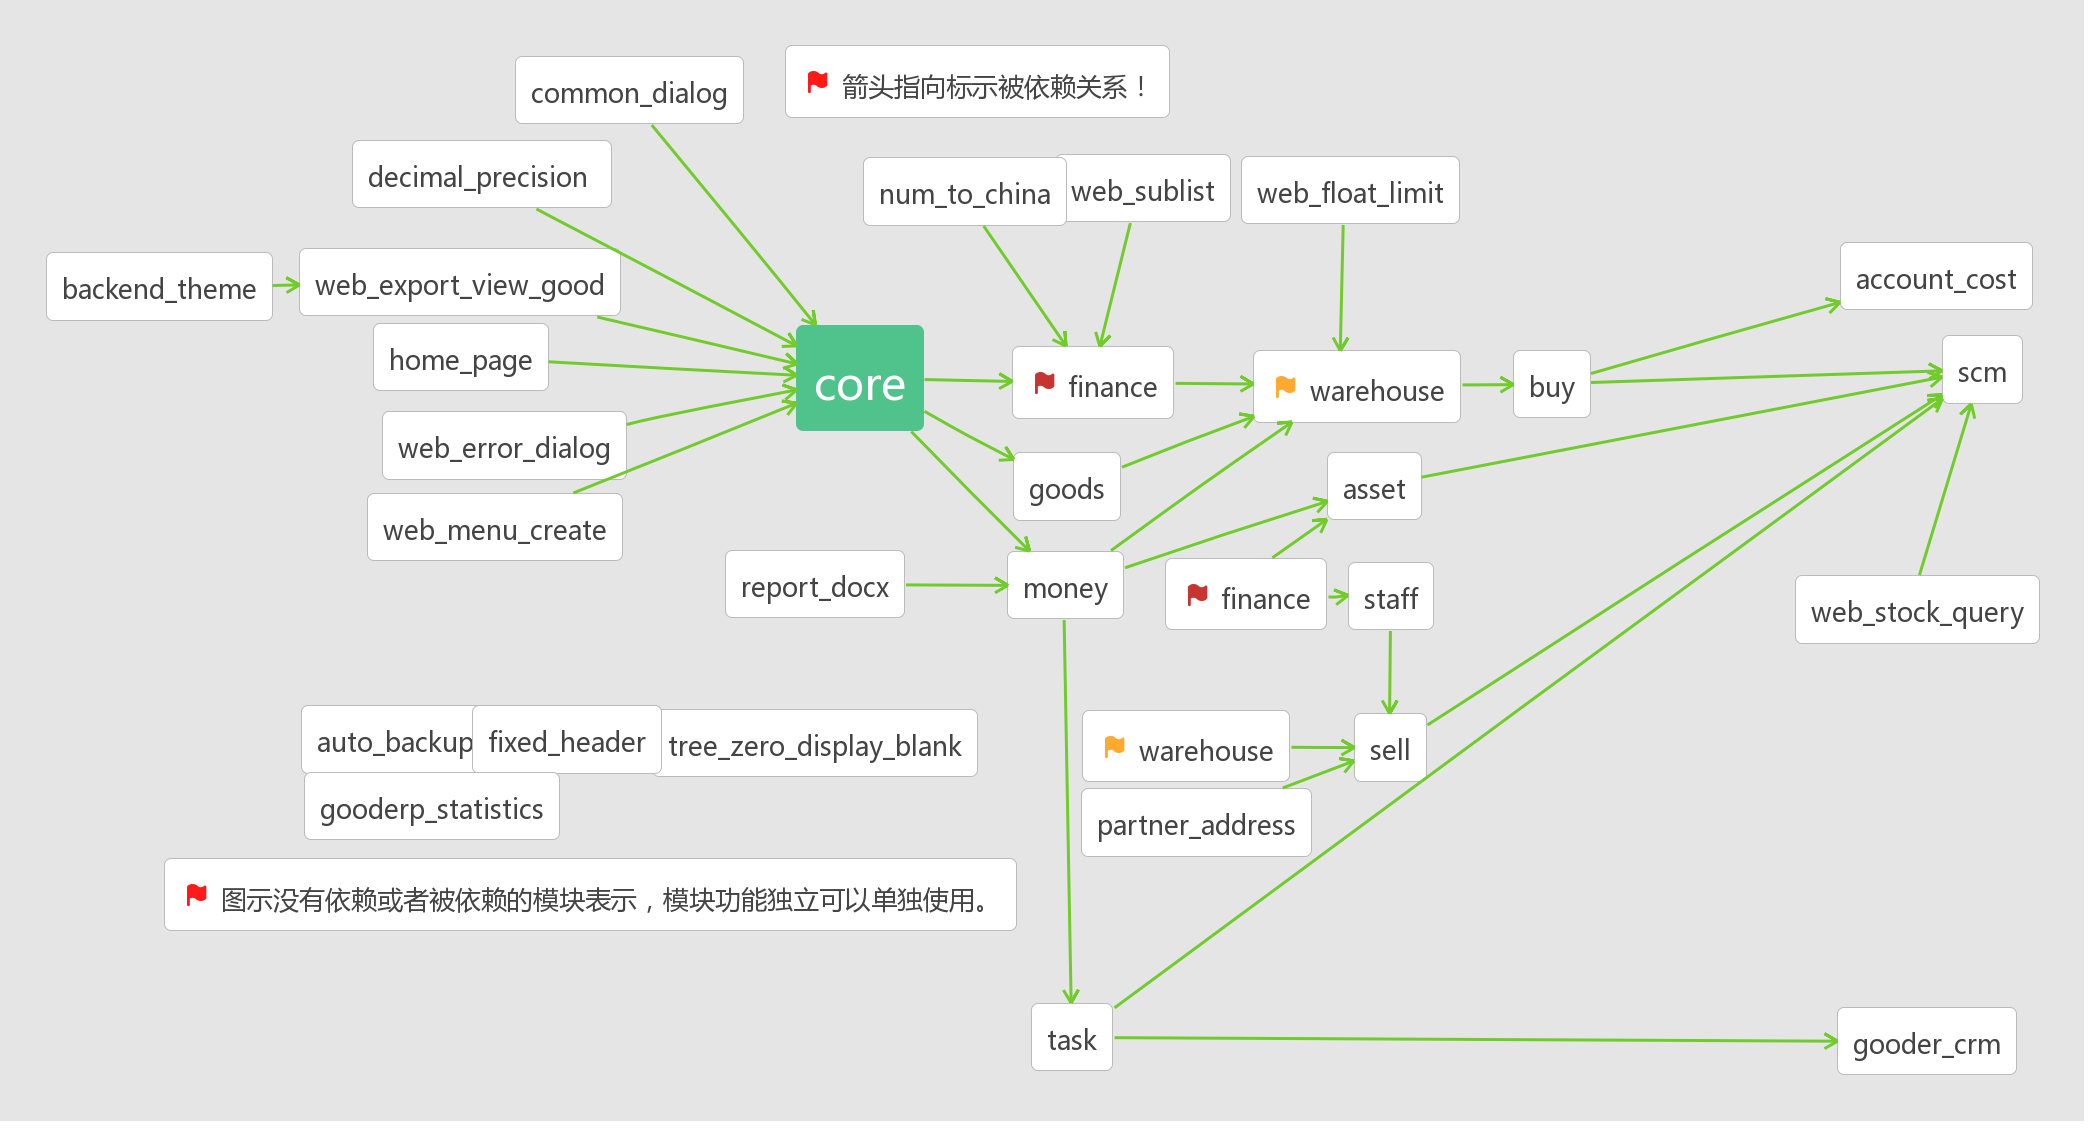
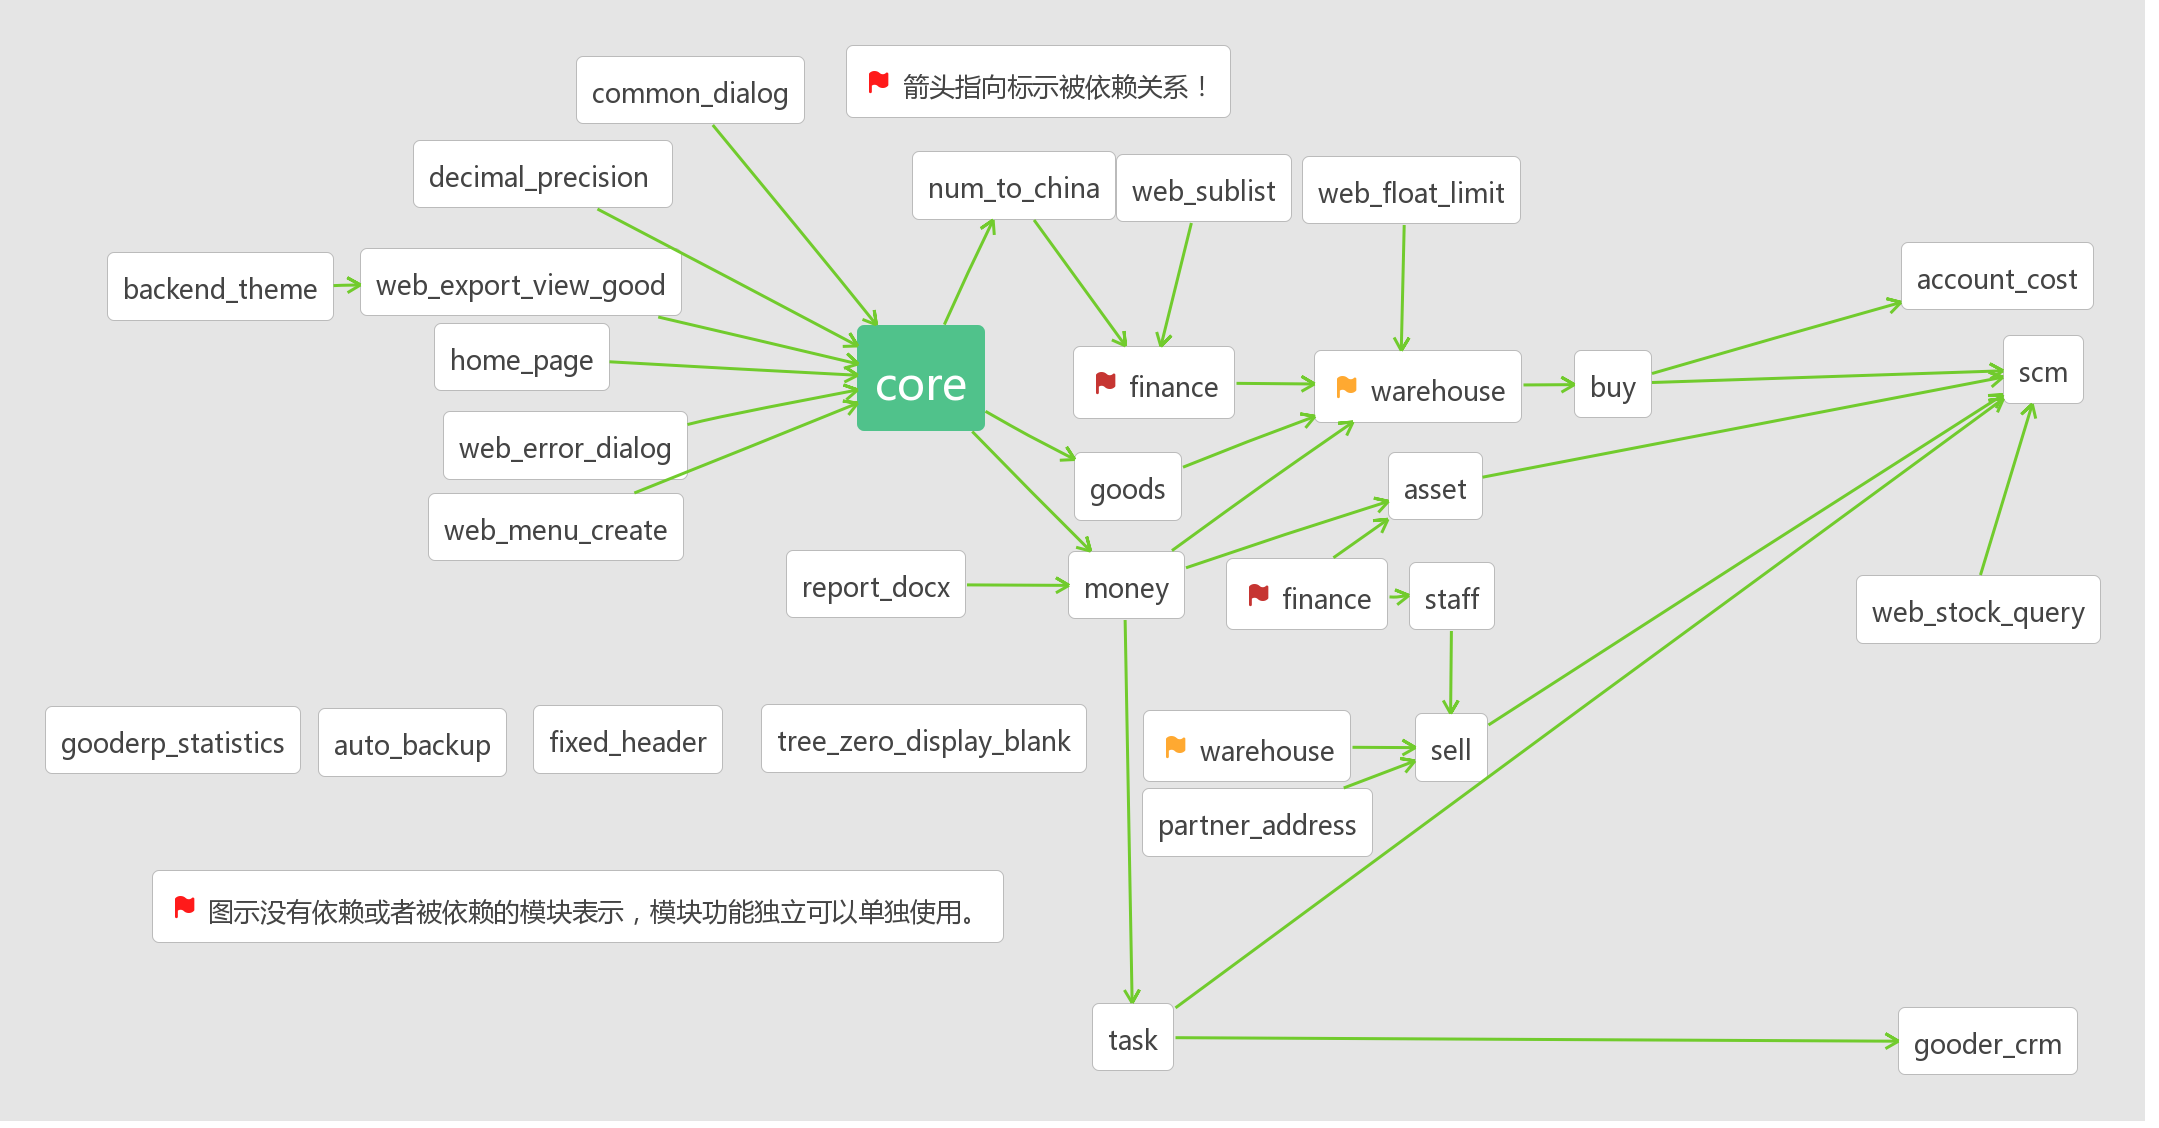
模块依赖的进一步更新。（依赖图中有一个依赖没有画出，现在补上）

diff --git a/finance/__openerp__.py b/finance/__openerp__.py
@@ -24,7 +24,7 @@
                                 辅助核算余额表。
     ''',
     'version': '8.0.0.1',
-    'depends': ['core', 'num_to_china', 'web_sublist'],
+    'depends': ['num_to_china', 'web_sublist'],
     'data': [
         'security/groups.xml',
         'security/ir.model.access.csv',
